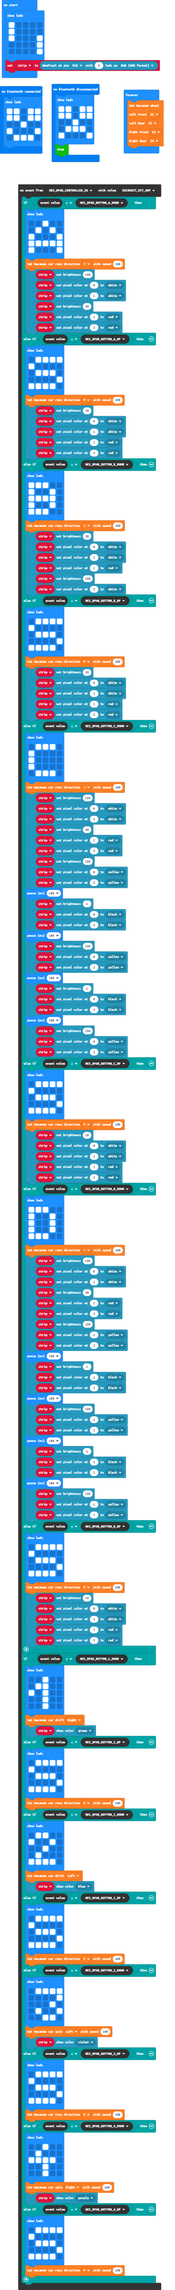
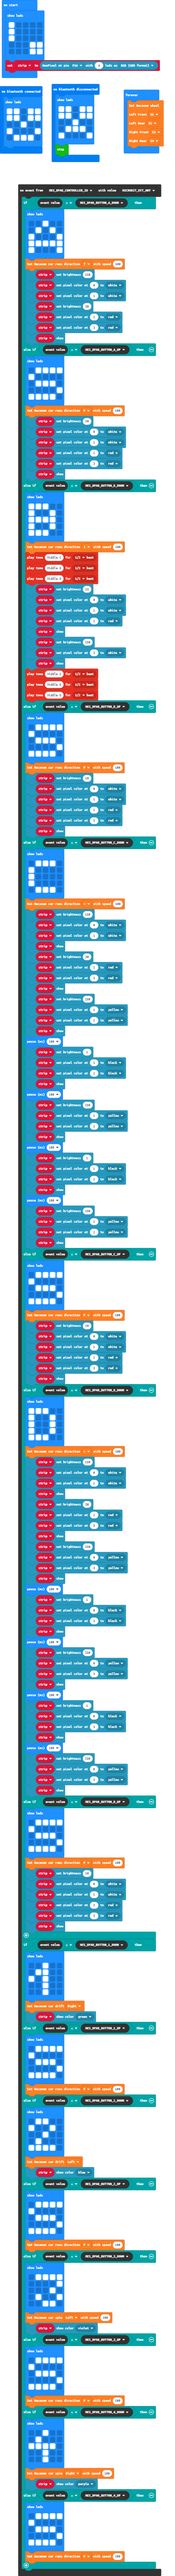
Update pxt.json, main.blocks, main.ts

diff --git a/main.ts b/main.ts
@@ -33,6 +33,7 @@ control.onEvent(EventBusSource.MES_DPAD_CONTROLLER_ID, EventBusValue.MICROBIT_EV
         strip.setBrightness(30)
         strip.setPixelColor(2, neopixel.colors(NeoPixelColors.Red))
         strip.setPixelColor(3, neopixel.colors(NeoPixelColors.Red))
+        strip.show()
     } else if (control.eventValue() == EventBusValue.MES_DPAD_BUTTON_A_UP) {
         basic.showLeds(`
             . # # # #
@@ -47,6 +48,7 @@ control.onEvent(EventBusSource.MES_DPAD_CONTROLLER_ID, EventBusValue.MICROBIT_EV
         strip.setPixelColor(1, neopixel.colors(NeoPixelColors.White))
         strip.setPixelColor(2, neopixel.colors(NeoPixelColors.Red))
         strip.setPixelColor(3, neopixel.colors(NeoPixelColors.Red))
+        strip.show()
     } else if (control.eventValue() == EventBusValue.MES_DPAD_BUTTON_B_DOWN) {
         basic.showLeds(`
             # # # . .
@@ -56,12 +58,20 @@ control.onEvent(EventBusSource.MES_DPAD_CONTROLLER_ID, EventBusValue.MICROBIT_EV
             # # # . .
             `)
         wuKong.mecanumRun(wuKong.RunList.rear, 100)
-        strip.setBrightness(30)
+        music.playTone(262, music.beat(BeatFraction.Half))
+        music.playTone(330, music.beat(BeatFraction.Half))
+        music.playTone(294, music.beat(BeatFraction.Half))
+        strip.setBrightness(15)
         strip.setPixelColor(0, neopixel.colors(NeoPixelColors.White))
         strip.setPixelColor(1, neopixel.colors(NeoPixelColors.White))
         strip.setPixelColor(2, neopixel.colors(NeoPixelColors.Red))
+        strip.show()
         strip.setBrightness(250)
         strip.setPixelColor(3, neopixel.colors(NeoPixelColors.White))
+        strip.show()
+        music.playTone(262, music.beat(BeatFraction.Half))
+        music.playTone(330, music.beat(BeatFraction.Half))
+        music.playTone(294, music.beat(BeatFraction.Half))
     } else if (control.eventValue() == EventBusValue.MES_DPAD_BUTTON_B_UP) {
         basic.showLeds(`
             . # # # #
@@ -76,6 +86,7 @@ control.onEvent(EventBusSource.MES_DPAD_CONTROLLER_ID, EventBusValue.MICROBIT_EV
         strip.setPixelColor(1, neopixel.colors(NeoPixelColors.White))
         strip.setPixelColor(2, neopixel.colors(NeoPixelColors.Red))
         strip.setPixelColor(3, neopixel.colors(NeoPixelColors.Red))
+        strip.show()
     } else if (control.eventValue() == EventBusValue.MES_DPAD_BUTTON_C_DOWN) {
         basic.showLeds(`
             . # # # .
@@ -88,28 +99,35 @@ control.onEvent(EventBusSource.MES_DPAD_CONTROLLER_ID, EventBusValue.MICROBIT_EV
         strip.setBrightness(150)
         strip.setPixelColor(0, neopixel.colors(NeoPixelColors.White))
         strip.setPixelColor(1, neopixel.colors(NeoPixelColors.White))
+        strip.show()
         strip.setBrightness(30)
         strip.setPixelColor(2, neopixel.colors(NeoPixelColors.Red))
         strip.setPixelColor(3, neopixel.colors(NeoPixelColors.Red))
+        strip.show()
         strip.setBrightness(250)
-        strip.setPixelColor(0, neopixel.colors(NeoPixelColors.Yellow))
-        strip.setPixelColor(3, neopixel.colors(NeoPixelColors.Yellow))
+        strip.setPixelColor(1, neopixel.colors(NeoPixelColors.Yellow))
+        strip.setPixelColor(2, neopixel.colors(NeoPixelColors.Yellow))
+        strip.show()
         basic.pause(100)
         strip.setBrightness(1)
-        strip.setPixelColor(0, neopixel.colors(NeoPixelColors.Black))
-        strip.setPixelColor(3, neopixel.colors(NeoPixelColors.Black))
+        strip.setPixelColor(1, neopixel.colors(NeoPixelColors.Black))
+        strip.setPixelColor(2, neopixel.colors(NeoPixelColors.Black))
+        strip.show()
         basic.pause(100)
         strip.setBrightness(250)
-        strip.setPixelColor(0, neopixel.colors(NeoPixelColors.Yellow))
-        strip.setPixelColor(3, neopixel.colors(NeoPixelColors.Yellow))
+        strip.setPixelColor(1, neopixel.colors(NeoPixelColors.Yellow))
+        strip.setPixelColor(2, neopixel.colors(NeoPixelColors.Yellow))
+        strip.show()
         basic.pause(100)
         strip.setBrightness(1)
-        strip.setPixelColor(0, neopixel.colors(NeoPixelColors.Black))
-        strip.setPixelColor(3, neopixel.colors(NeoPixelColors.Black))
+        strip.setPixelColor(1, neopixel.colors(NeoPixelColors.Black))
+        strip.setPixelColor(2, neopixel.colors(NeoPixelColors.Black))
+        strip.show()
         basic.pause(100)
         strip.setBrightness(250)
-        strip.setPixelColor(0, neopixel.colors(NeoPixelColors.Yellow))
-        strip.setPixelColor(3, neopixel.colors(NeoPixelColors.Yellow))
+        strip.setPixelColor(1, neopixel.colors(NeoPixelColors.Yellow))
+        strip.setPixelColor(2, neopixel.colors(NeoPixelColors.Yellow))
+        strip.show()
     } else if (control.eventValue() == EventBusValue.MES_DPAD_BUTTON_C_UP) {
         basic.showLeds(`
             . # # # #
@@ -124,6 +142,7 @@ control.onEvent(EventBusSource.MES_DPAD_CONTROLLER_ID, EventBusValue.MICROBIT_EV
         strip.setPixelColor(1, neopixel.colors(NeoPixelColors.White))
         strip.setPixelColor(2, neopixel.colors(NeoPixelColors.Red))
         strip.setPixelColor(3, neopixel.colors(NeoPixelColors.Red))
+        strip.show()
     } else if (control.eventValue() == EventBusValue.MES_DPAD_BUTTON_D_DOWN) {
         basic.showLeds(`
             # # # . .
@@ -136,28 +155,35 @@ control.onEvent(EventBusSource.MES_DPAD_CONTROLLER_ID, EventBusValue.MICROBIT_EV
         strip.setBrightness(150)
         strip.setPixelColor(0, neopixel.colors(NeoPixelColors.White))
         strip.setPixelColor(1, neopixel.colors(NeoPixelColors.White))
+        strip.show()
         strip.setBrightness(30)
         strip.setPixelColor(2, neopixel.colors(NeoPixelColors.Red))
         strip.setPixelColor(3, neopixel.colors(NeoPixelColors.Red))
+        strip.show()
         strip.setBrightness(250)
-        strip.setPixelColor(1, neopixel.colors(NeoPixelColors.Yellow))
-        strip.setPixelColor(2, neopixel.colors(NeoPixelColors.Yellow))
+        strip.setPixelColor(0, neopixel.colors(NeoPixelColors.Yellow))
+        strip.setPixelColor(3, neopixel.colors(NeoPixelColors.Yellow))
+        strip.show()
         basic.pause(100)
         strip.setBrightness(1)
-        strip.setPixelColor(1, neopixel.colors(NeoPixelColors.Black))
-        strip.setPixelColor(2, neopixel.colors(NeoPixelColors.Black))
+        strip.setPixelColor(0, neopixel.colors(NeoPixelColors.Black))
+        strip.setPixelColor(3, neopixel.colors(NeoPixelColors.Black))
+        strip.show()
         basic.pause(100)
         strip.setBrightness(250)
-        strip.setPixelColor(1, neopixel.colors(NeoPixelColors.Yellow))
-        strip.setPixelColor(2, neopixel.colors(NeoPixelColors.Yellow))
+        strip.setPixelColor(0, neopixel.colors(NeoPixelColors.Yellow))
+        strip.setPixelColor(3, neopixel.colors(NeoPixelColors.Yellow))
+        strip.show()
         basic.pause(100)
         strip.setBrightness(1)
-        strip.setPixelColor(1, neopixel.colors(NeoPixelColors.Black))
-        strip.setPixelColor(2, neopixel.colors(NeoPixelColors.Black))
+        strip.setPixelColor(0, neopixel.colors(NeoPixelColors.Black))
+        strip.setPixelColor(3, neopixel.colors(NeoPixelColors.Black))
+        strip.show()
         basic.pause(100)
         strip.setBrightness(250)
-        strip.setPixelColor(1, neopixel.colors(NeoPixelColors.Yellow))
-        strip.setPixelColor(2, neopixel.colors(NeoPixelColors.Yellow))
+        strip.setPixelColor(0, neopixel.colors(NeoPixelColors.Yellow))
+        strip.setPixelColor(3, neopixel.colors(NeoPixelColors.Yellow))
+        strip.show()
     } else if (control.eventValue() == EventBusValue.MES_DPAD_BUTTON_D_UP) {
         basic.showLeds(`
             . # # # #
@@ -172,6 +198,7 @@ control.onEvent(EventBusSource.MES_DPAD_CONTROLLER_ID, EventBusValue.MICROBIT_EV
         strip.setPixelColor(1, neopixel.colors(NeoPixelColors.White))
         strip.setPixelColor(2, neopixel.colors(NeoPixelColors.Red))
         strip.setPixelColor(3, neopixel.colors(NeoPixelColors.Red))
+        strip.show()
     }
     if (control.eventValue() == EventBusValue.MES_DPAD_BUTTON_1_DOWN) {
         basic.showLeds(`
@@ -255,9 +282,9 @@ let strip: neopixel.Strip = null
 basic.showLeds(`
     # . . . .
     # . . . .
-    # . . . #
-    . . . . #
-    . . . . #
+    # . . . .
+    . . . # #
+    . . . # #
     `)
 strip = neopixel.create(DigitalPin.P16, 4, NeoPixelMode.RGB)
 basic.forever(function () {
